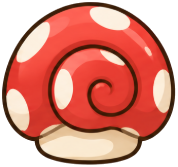
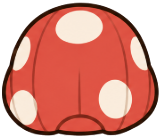
[fix] 새 동료 아트 공백 보충 (0.32.1) (#46)
- 버섯 달팽이 껍질 정면·옆면·뒷면을 껍질만 그린 새 부품으로 바꾼다. 몸을 덮던 크림색 받침을 없애고 정면 아래 크림 테두리는 잘라 낸다.
- 버섯 달팽이 등급 4 옆면·뒷면은 새 시점별 무더기(shrooms_side_g4·shrooms_back_g4)를 쓰고, 나머지 등급·정면은 기존 무더기를 쓴다.
- 두 종 보스 뒷면에 왕관 뒷면(hat_back)을 그린다.
- 뿌리 뒷면은 뒷면 잎 등급 1–4를 쓰고(흰 무 윗부분은 잘라 냄), 아기는 전용 새싹 부품(sprout_front·side·back)을 쓴다.
- unit-rig.js는 부품 조회만 바꾸고 look 필드·queue(...)는 그대로 둔다. Pages PNG 수(뿌리 34·버섯 달팽이 28)와 버전 0.32.1, README를 갱신한다.

diff --git a/index.html b/index.html
@@ -1,4 +1,4 @@
-<!doctype html><html lang="ko"><head><meta charset="utf-8"><meta name="viewport" content="width=device-width,initial-scale=1,maximum-scale=1,viewport-fit=cover"><link rel="icon" href="data:,"><title>디그모리 · Digmori 0.32.0</title><link rel="stylesheet" href="src/ui/style-1.css"><link rel="stylesheet" href="src/ui/style-2.css"><link rel="stylesheet" href="src/ui/style-3.css">
+<!doctype html><html lang="ko"><head><meta charset="utf-8"><meta name="viewport" content="width=device-width,initial-scale=1,maximum-scale=1,viewport-fit=cover"><link rel="icon" href="data:,"><title>디그모리 · Digmori 0.32.1</title><link rel="stylesheet" href="src/ui/style-1.css"><link rel="stylesheet" href="src/ui/style-2.css"><link rel="stylesheet" href="src/ui/style-3.css">
 
 
 <link rel="stylesheet" href="src/ui/style-4.css">
@@ -61,7 +61,7 @@ if (new URLSearchParams(location.search).get('showcaseDemo') === '1') {
  </div>
 </div>
 <div id="cursor-display" hidden></div><div id="tooltip" hidden></div>
-<div id="menu" class="shade" hidden><div class="panel"><small style="color:var(--gold)">DIGMORI · 0.32.0</small><h1>작은 생명, 넓은 세계.</h1><p>빈 가방으로 출발해 도구를 만들고, 지하 광맥을 찾아보세요. 화원의 제단에서 수호자를 깨울 수 있어요.</p><label>새 월드 시드 <input id="seed-input" type="number" value="190725"></label><button id="new-world" class="big-button">새 서바이벌 시작</button><div class="row"><button id="save-world">월드 저장</button><button id="load-world">저장 불러오기</button></div><div class="row"><button id="export-world">파일 내보내기</button><button id="import-world">파일 가져오기</button><input id="file-input" type="file" accept=".bloom,application/octet-stream" hidden></div><div class="row"><button id="resume" class="big-button">게임으로 돌아가기</button></div><p id="save-status" class="hint-text">0.26.0 동굴·던전·성장 데이터를 Rapier 물리 상태와 함께 저장합니다. 0.26.0 저장은 계속 사용할 수 있습니다. 0.25.0 이하 저장은 새 월드가 필요합니다.</p><details class="feedback-settings"><summary>타격 연출 · 화면 설정</summary><div class="feedback-options"><label><input type="checkbox" id="option-textures" checked>블록 도트 텍스처</label><label><input type="checkbox" id="option-sound" checked>효과음</label><label><input type="checkbox" id="option-shake" checked>가벼운 화면 흔들림</label><label><input type="checkbox" id="option-numbers" checked>피해 수치 표시</label><label><input type="checkbox" id="option-effects" checked>입자·잔상·타격 효과</label></div><p class="hint-text">연출만 조절합니다. 타격 판정·물리 속도에는 영향을 주지 않아요.</p></details><details open><summary>자원 · 지하 탐험 안내</summary><p id="resource-bands"></p></details><details><summary>조작 · 범위</summary><p>전투는 왼쪽 버튼 기본 공격 3연타와 Shift 구르기(회피)만 사용합니다. 차지·막기·기력·경직·무기별 기술은 없습니다.<br>철 → 다이아몬드가 초기 장비 진행의 상한입니다. 보스 처치 후에도 같은 세계에서 건축·재도전을 계속할 수 있습니다.</p></details></div></div>
+<div id="menu" class="shade" hidden><div class="panel"><small style="color:var(--gold)">DIGMORI · 0.32.1</small><h1>작은 생명, 넓은 세계.</h1><p>빈 가방으로 출발해 도구를 만들고, 지하 광맥을 찾아보세요. 화원의 제단에서 수호자를 깨울 수 있어요.</p><label>새 월드 시드 <input id="seed-input" type="number" value="190725"></label><button id="new-world" class="big-button">새 서바이벌 시작</button><div class="row"><button id="save-world">월드 저장</button><button id="load-world">저장 불러오기</button></div><div class="row"><button id="export-world">파일 내보내기</button><button id="import-world">파일 가져오기</button><input id="file-input" type="file" accept=".bloom,application/octet-stream" hidden></div><div class="row"><button id="resume" class="big-button">게임으로 돌아가기</button></div><p id="save-status" class="hint-text">0.26.0 동굴·던전·성장 데이터를 Rapier 물리 상태와 함께 저장합니다. 0.26.0 저장은 계속 사용할 수 있습니다. 0.25.0 이하 저장은 새 월드가 필요합니다.</p><details class="feedback-settings"><summary>타격 연출 · 화면 설정</summary><div class="feedback-options"><label><input type="checkbox" id="option-textures" checked>블록 도트 텍스처</label><label><input type="checkbox" id="option-sound" checked>효과음</label><label><input type="checkbox" id="option-shake" checked>가벼운 화면 흔들림</label><label><input type="checkbox" id="option-numbers" checked>피해 수치 표시</label><label><input type="checkbox" id="option-effects" checked>입자·잔상·타격 효과</label></div><p class="hint-text">연출만 조절합니다. 타격 판정·물리 속도에는 영향을 주지 않아요.</p></details><details open><summary>자원 · 지하 탐험 안내</summary><p id="resource-bands"></p></details><details><summary>조작 · 범위</summary><p>전투는 왼쪽 버튼 기본 공격 3연타와 Shift 구르기(회피)만 사용합니다. 차지·막기·기력·경직·무기별 기술은 없습니다.<br>철 → 다이아몬드가 초기 장비 진행의 상한입니다. 보스 처치 후에도 같은 세계에서 건축·재도전을 계속할 수 있습니다.</p></details></div></div>
 <div id="network" class="shade" hidden><div class="panel"><div class="panel-head"><h2>4인 협동 월드</h2><button id="network-close">닫기</button></div><p>Bloom Gamekit의 Nostr / WebRTC 방을 사용합니다. 협동 시드는 방 코드에서 결정되며 개인 월드는 별도로 보존됩니다.</p><input id="room-code" inputmode="numeric" maxlength="4" placeholder="4자리 방 코드"><div class="row"><button id="host-room">방 만들기</button><button id="join-room">참가</button><button id="reconnect-room">다시 연결</button><button id="leave-room" class="danger">나가기</button></div><div id="network-status">혼자 플레이 중 · Rapier 외부 로딩</div><p class="hint-text">초기 물리 엔진 다운로드와 온라인 시그널링 접속에는 인터넷이 필요합니다. 일시중단된 참가자는 Gamekit 가용성 정책에 따라 동기화에서 분리·복귀합니다. 네트워크 분할 후 재결합 시 선택되지 않은 분기의 진행은 사라질 수 있습니다.</p></div></div>
 <div id="death" class="shade" hidden><div class="panel"><h1>잠시 시들었어요.</h1><p>가방의 아이템은 쓰러진 자리에 남습니다.<br>동료는 보관 상태로 안전하게 회수됩니다.<br>시작 지점에서 다시 자라납니다.</p></div></div><div id="ending" class="shade" hidden><div class="panel"><small>첫 번째 여정의 끝</small><h1>화원이 다시 숨을 쉬어요.</h1><p>수호자가 화원의 심장을 남겼습니다.<br>안내서에서 수호의 증표를 만들거나,<br>소환 문양을 준비해 강화된 수호자에게 재도전할 수 있어요.</p><button id="continue-end" class="big-button">세계에 계속 머물기</button></div></div>
 <div id="debugbar" hidden>디버그 전용 · 일반 플레이에는 지급 없음<div class="row"><button id="debug-kit">검증 장비</button><button id="debug-enemy">야생 후보 소환</button><button id="debug-boss">보스 검증</button></div></div>
@@ -81,7 +81,7 @@ if (new URLSearchParams(location.search).get('showcaseDemo') === '1') {
  const launch=document.getElementById('error-launch');
  let ring=null,api=null,phase='bootstrap',early=[],lastError='',lastKind='',total=0;
  const str=x=>typeof x==='string'?x:(x&&typeof x.message==='string'?x.message:String(x));
- const info=()=>({product:'Digmori',version:'0.32.0',snapshotVersion:'0.26.0',phase,
+ const info=()=>({product:'Digmori',version:'0.32.1',snapshotVersion:'0.26.0',phase,
    environment:{protocol:location.protocol,secureContext:isSecureContext,userAgent:navigator.userAgent,
      viewport:innerWidth+'x'+innerHeight},gamekitDist:'418e17c455db56d6ed073d82d115191d9dd8bf04',rapier:'0.21.0'});
  function format(){const payload={...info(),diagnostics:ring?ring.snapshot():{
@@ -101,7 +101,7 @@ if (new URLSearchParams(location.search).get('showcaseDemo') === '1') {
  const onEarlyRejection=event=>report(event.reason,{kind:'unhandled-rejection',origin:'bootstrap'});
  addEventListener('error',onEarlyError);addEventListener('unhandledrejection',onEarlyRejection);
  function install(module){if(api)return;api=module;
-   ring=new module.DiagnosticRing({capacity:24,release:'digmori-0.32.0'});
+   ring=new module.DiagnosticRing({capacity:24,release:'digmori-0.32.1'});
    for(const item of early)ring.report({message:item.message,stack:item.stack},{kind:item.kind,visibility:item.visibility,origin:'bootstrap'});
    early=[];removeEventListener('error',onEarlyError);removeEventListener('unhandledrejection',onEarlyRejection);
    ring.installGlobal(window,{onReport:record=>{if(!record)return;lastError=record.message;lastKind=record.kind;redraw(true);}});

diff --git a/src/presentation/unit-rig.js b/src/presentation/unit-rig.js
@@ -52,9 +52,9 @@ class UnitRig{
   this.shells=!!this.slots.front.shellTop;this.leaves=!!this.slots.front.leaves;this.shell=!!this.slots.front.shell;
   if(!UNIT_WALKS.includes(this.walk))throw Error('동료 걷기 방식 누락: '+species);
   const need=[...UNIT_VIEWS.map(v=>'body_'+v),...['front','side'].flatMap(v=>UNIT_EXPRESSIONS.map(e=>'face_'+v+'_'+e)),...['front','side'].map(v=>'hat_'+v),'egg'];
-  if(species==='root')need.push(...['front','side'].flatMap(v=>[1,2,3,4].map(g=>'leaves_'+v+'_g'+g)));
+  if(species==='root')need.push(...UNIT_VIEWS.flatMap(v=>[...[1,2,3,4].map(g=>'leaves_'+v+'_g'+g),'sprout_'+v,'hat_'+v]));
   if(species==='rock-chick')need.push(...UNIT_VIEWS.flatMap(v=>['shell_top_'+v,'shell_bottom_'+v,'hat_'+v]),...['front','side'].flatMap(v=>['peek','peek_hurt','peek_sleep'].map(e=>'face_'+v+'_'+e)),...['iron','crystal','copper','gold'].map(o=>'ore_'+o));
-  if(species==='mushroom-snail')need.push(...UNIT_VIEWS.map(v=>'shell_'+v),...[1,2,3,4].map(g=>'shrooms_g'+g));
+  if(species==='mushroom-snail')need.push(...UNIT_VIEWS.flatMap(v=>['shell_'+v,'hat_'+v]),...[1,2,3,4].map(g=>'shrooms_g'+g),'shrooms_side_g4','shrooms_back_g4');
   for(const key of need){const p=this.parts[key];if(!p||!Array.isArray(p.anchor)||typeof this.scale[p.group]!=='number')throw Error('동료 부품 정보 누락: '+species+' '+key);}
   for(const v of UNIT_VIEWS)if(!this.slots[v])throw Error('동료 부품 위치 누락: '+species+' '+v);
  }
@@ -115,7 +115,7 @@ class UnitRig{
    ctx.save();ctx.translate(x*U,-y*U);if(o.r)ctx.rotate(o.r);if(o.sx||o.sy)ctx.scale(o.sx||1,o.sy||1);ctx.drawImage(im,-m.anchor[0]*s,-m.anchor[1]*s,im.width*s,im.height*s);ctx.restore();drawn.push(key);};
   // Sub-frame (shell, leaves…) at rig (x,y) whose children use local rig coordinates.
   const frame=(x,y,o,fn)=>{ctx.save();ctx.translate(x*U,-y*U);if(o.r)ctx.rotate(o.r);if(o.s)ctx.scale(o.s,o.s);fn();ctx.restore();};
-  const slot=this.slots[view],fv=view==='back'?'front':view,faceKey='face_'+view+'_'+p.face;
+  const slot=this.slots[view],faceKey='face_'+view+'_'+p.face;
   ctx.save();ctx.translate(origin.x,origin.y);if(look.flip)ctx.scale(-1,1);
   this.effect(ctx,p,U,'back',view);
   // Forward motion: sideways in the side view, toward/away from the camera in front/back.
@@ -123,9 +123,9 @@ class UnitRig{
   ctx.translate(fwdX*U,-p.bob*U);ctx.rotate(p.rot*(view==='side'?1:.35));ctx.scale(p.sx*zoom*stage.round[0],p.sy*zoom*stage.round[1]);
   const face=(at,dy=0)=>{if(view!=='back')P(faceKey,at[0],at[1]+dy,{s:stage.face});};
   if(this.leaves){
-   // Leaves grow from the crown: grade 1 leaves, 2 bud, 3 flower, 4 two flowers (leaves sheet). Baby: a small grade-1 sprout.
-   const [lx,ly]=slot.leaves;P('leaves_'+fv+'_g'+(baby?1:grade),lx,ly,{r:p.sway,s:baby?.55:1});
-   P('body_'+view,0,0);face(slot.face);if(boss)P('hat_'+fv,...slot.hat);
+   // Leaves grow from the crown: grade 1 leaves, 2 bud, 3 flower, 4 two flowers (leaves sheet). Baby: its own sprout part.
+   const [lx,ly]=slot.leaves;P(baby?'sprout_'+view:'leaves_'+view+'_g'+grade,lx,ly,{r:p.sway});
+   P('body_'+view,0,0);face(slot.face);if(boss)P('hat_'+view,...slot.hat);
   }else if(this.shells){
    // 껍질 쏙: the body sinks, the top shell drops and the bottom shell rises until only a strip with the eyes shows.
    const c=p.shell,[tx,ty]=slot.shellTop,[bx,by]=slot.shellBottom;
@@ -136,11 +136,12 @@ class UnitRig{
     if(boss)P('hat_'+view,...slot.hat);});
   }else{
    // Mushroom clusters on the shell: grade 1..4 = 1/2/3/5 mushrooms (shell sheet). The baby's shell is bare.
+   // A per-view cluster (shrooms_<view>_g<grade>) replaces the shared one where it was drawn (side/back grade 4).
    // Slot [x, y, scale]: the shell sheet draws the side view relatively larger than the turnaround, so each view carries its own fit.
-   const [sx,sy,ss=1]=slot.shell,shell=()=>frame(sx,sy,{s:p.shellScale*ss},()=>{P('shell_'+view,0,0);if(!baby)P('shrooms_g'+grade,(slot.shrooms[0]-sx)/ss,(slot.shrooms[1]-sy)/ss,{r:p.sway*.5});});
+   const [sx,sy,ss=1]=slot.shell,shell=()=>frame(sx,sy,{s:p.shellScale*ss},()=>{P('shell_'+view,0,0);if(!baby)P(this.parts['shrooms_'+view+'_g'+grade]?'shrooms_'+view+'_g'+grade:'shrooms_g'+grade,(slot.shrooms[0]-sx)/ss,(slot.shrooms[1]-sy)/ss,{r:p.sway*.5});});
    if(view==='front'){shell();P('body_front',0,0);face(slot.face);if(boss)P('hat_front',...slot.hat);}
    else if(view==='side'){P('body_side',0,0);shell();face(slot.face);if(boss)P('hat_side',...slot.hat);}
-   else{P('body_back',0,0);if(boss)P('hat_front',...slot.hat);shell();}
+   else{P('body_back',0,0);if(boss)P('hat_back',...slot.hat);shell();}
   }
   ctx.restore();
   ctx.save();ctx.translate(origin.x,origin.y);if(look.flip)ctx.scale(-1,1);this.effect(ctx,p,U,'front',view);ctx.restore();

diff --git a/src/core/config.js b/src/core/config.js
@@ -20,7 +20,7 @@ const DEPENDENCIES=Object.freeze({
 // 기하·물리 수치는 목적에 따른 연속값이고 스탯 양자화의 대상이 아니다.
 const STAT_SCALE=Object.freeze({hp:25,damage:5});
 const statStep=(value,step)=>Math.max(step,Math.round(value/step)*step);
-const VERSION='0.32.0',SNAPSHOT_VERSION='0.26.0';
+const VERSION='0.32.1',SNAPSHOT_VERSION='0.26.0';
 const SIMULATION_TPS=30;
 const ticksForMs=ms=>Math.max(1,Math.round(ms*SIMULATION_TPS/1000));
 const CFG=Object.freeze({tickRate:SIMULATION_TPS,stepMs:1000/SIMULATION_TPS,chunk:16,bottom:-32,top:48,sea:1,view:3,reach:4.5,dayMs:480000,

diff --git a/README.md b/README.md
@@ -92,11 +92,23 @@ SDK 경로·버전·모듈 해시의 원본은 [core/config.js](src/core/config.
 
 ## 버전·저장 호환
 
-게임은 **0.32.0**, snapshotVersion은 **0.26.0**입니다. 30 TPS와 저장 형식을 유지합니다. 바이옴 식생·자원 규칙은 월드 시드에서 결정적으로 다시 계산하며, 기존 저장·저장 키·지형 편집을 보존하고 전체 월드를 강제로 재생성하지 않습니다. 아직 편집되지 않은 청크는 열릴 때 새 규칙으로 생성됩니다. 0.25.0을 포함한 snapshotVersion 0.26.0 이전 저장은 기존과 같이 새 월드가 필요합니다. 자동 변환 어댑터나 이전 저장 삭제 기능은 없습니다.
+게임은 **0.32.1**, snapshotVersion은 **0.26.0**입니다. 30 TPS와 저장 형식을 유지합니다. 바이옴 식생·자원 규칙은 월드 시드에서 결정적으로 다시 계산하며, 기존 저장·저장 키·지형 편집을 보존하고 전체 월드를 강제로 재생성하지 않습니다. 아직 편집되지 않은 청크는 열릴 때 새 규칙으로 생성됩니다. 0.25.0을 포함한 snapshotVersion 0.26.0 이전 저장은 기존과 같이 새 월드가 필요합니다. 자동 변환 어댑터나 이전 저장 삭제 기능은 없습니다.
 
 브라우저 저장은 출처에 종속됩니다. 기존 로컬/다른 사이트 저장이 새 Pages 주소로 자동 이동하지 않습니다. 0.26.0 월드는 게임의 내보내기·가져오기를 사용할 수 있습니다.
 
 ## 검증
+
+### 0.32.1 새 동료 아트 공백 보충
+
+0.32.0이 남긴 그림 공백을 새 ChatGPT 부품 시트 2장(버섯 달팽이 껍질 v2, 뿌리 뒷면·아기 v1)으로 메웠습니다. 리그 API(`look` 필드와 `queue(...)`)는 그대로이고 부품 조회만 바꿨습니다. 아직 게임에 연결하지 않았습니다.
+
+- 버섯 달팽이 껍질: 정면·옆면·뒷면 모두 껍질만 그린 새 부품으로 바꿨습니다. 몸을 덮던 크림색 받침이 없고, 정면은 머리 뒤로 솟은 둥근 껍질로 보입니다(정면 아래 얇은 크림 테두리는 잘라 냈습니다).
+- 버섯 달팽이 버섯 무더기: 등급 1–4(버섯 1/2/3/5개)는 그대로 두고, 등급 4의 옆면·뒷면만 새 시점별 무더기(`shrooms_side_g4`·`shrooms_back_g4`)를 씁니다. 다른 등급·정면은 기존 무더기를 씁니다.
+- 보스 뒷면: 두 종 모두 왕관 뒷면(`hat_back`)을 그립니다. 전에는 정면 모자를 다시 썼습니다.
+- 뿌리 뒷면 잎: 등급 1–4 뒷면 잎(`leaves_back_g1..4`)을 그립니다. 시트의 흰 무 윗부분은 몸이 이미 그리므로 잘라 내고, 줄기 끝이 몸 뒤로 숨게 정면 잎과 같은 자리에 붙였습니다.
+- 뿌리 아기: 등급 1 잎을 ×0.55로 줄이던 것을 전용 새싹 부품(`sprout_front`·`sprout_side`·`sprout_back`)으로 바꿨습니다.
+- 에셋: PNG 97장(뿌리 34 · 바위 병아리 35 · 버섯 달팽이 28). Pages 검증의 PNG 수도 같이 올렸습니다.
+- 저장: snapshotVersion 0.26.0과 저장 형식은 그대로입니다.
 
 ### 0.32.0 새 동료 3종 리그 에셋
 
